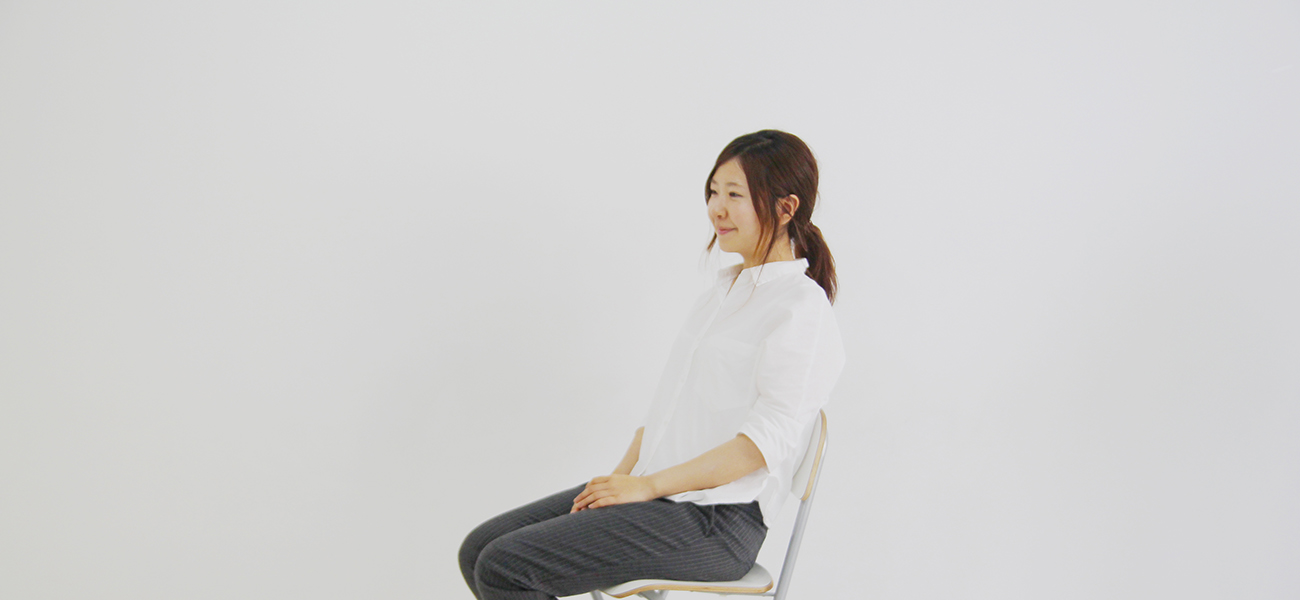
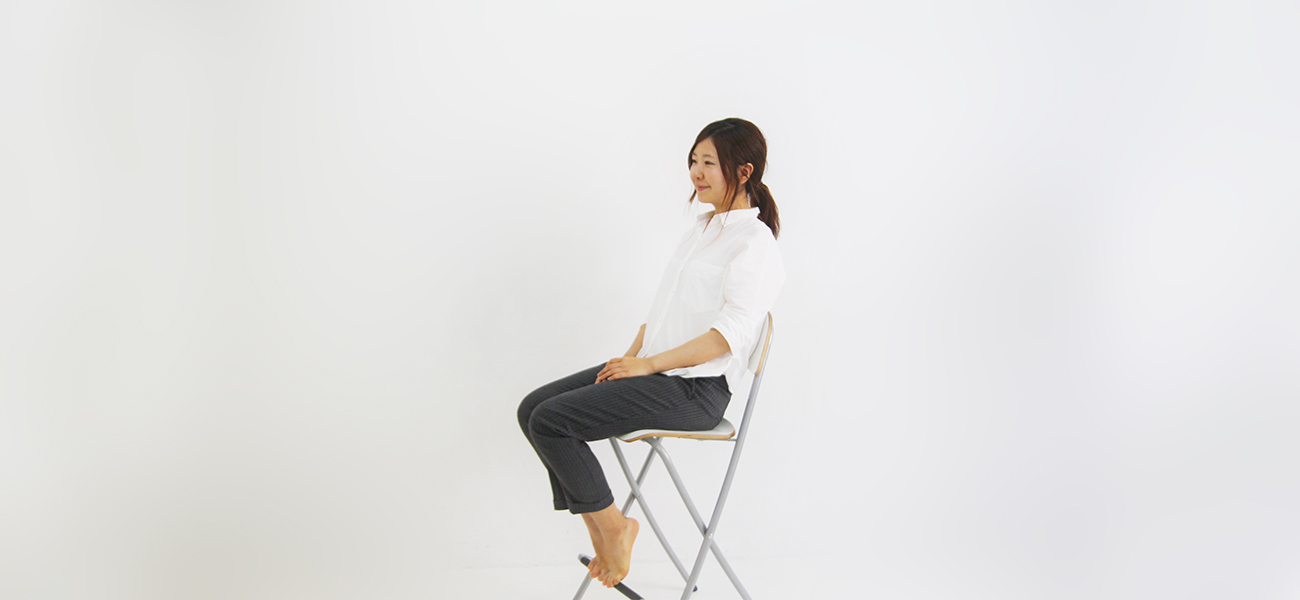
Profile _ Again

diff --git a/css/main.css b/css/main.css
@@ -356,7 +356,7 @@ h5, h6          { font-weight: bolder }
 }
 
 .about{
-    background: url('../img/me_3.jpg') no-repeat;
+    background: url('../img/me_1.jpg') no-repeat;
     background-size: cover;
     -webkit-background-size: cover;
     -moz-background-size: cover;
